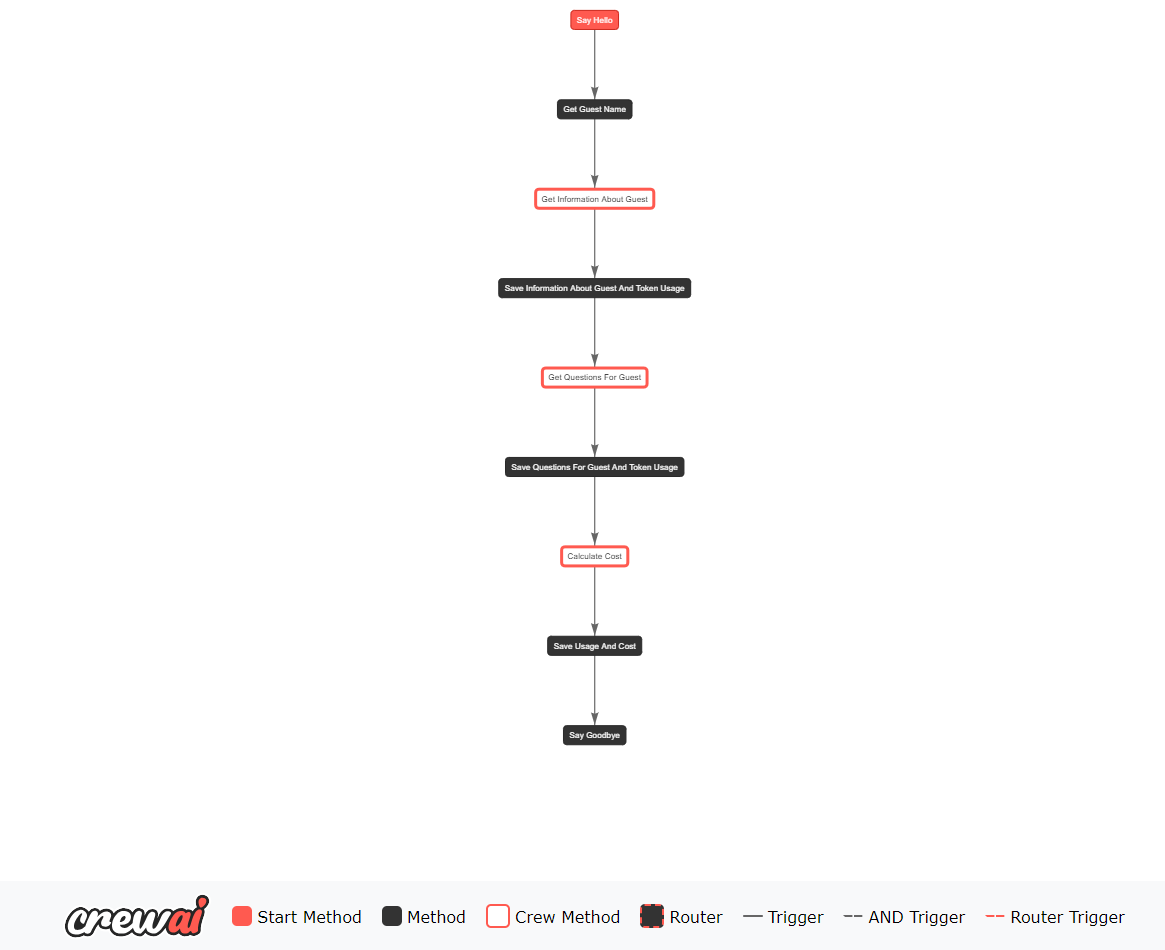
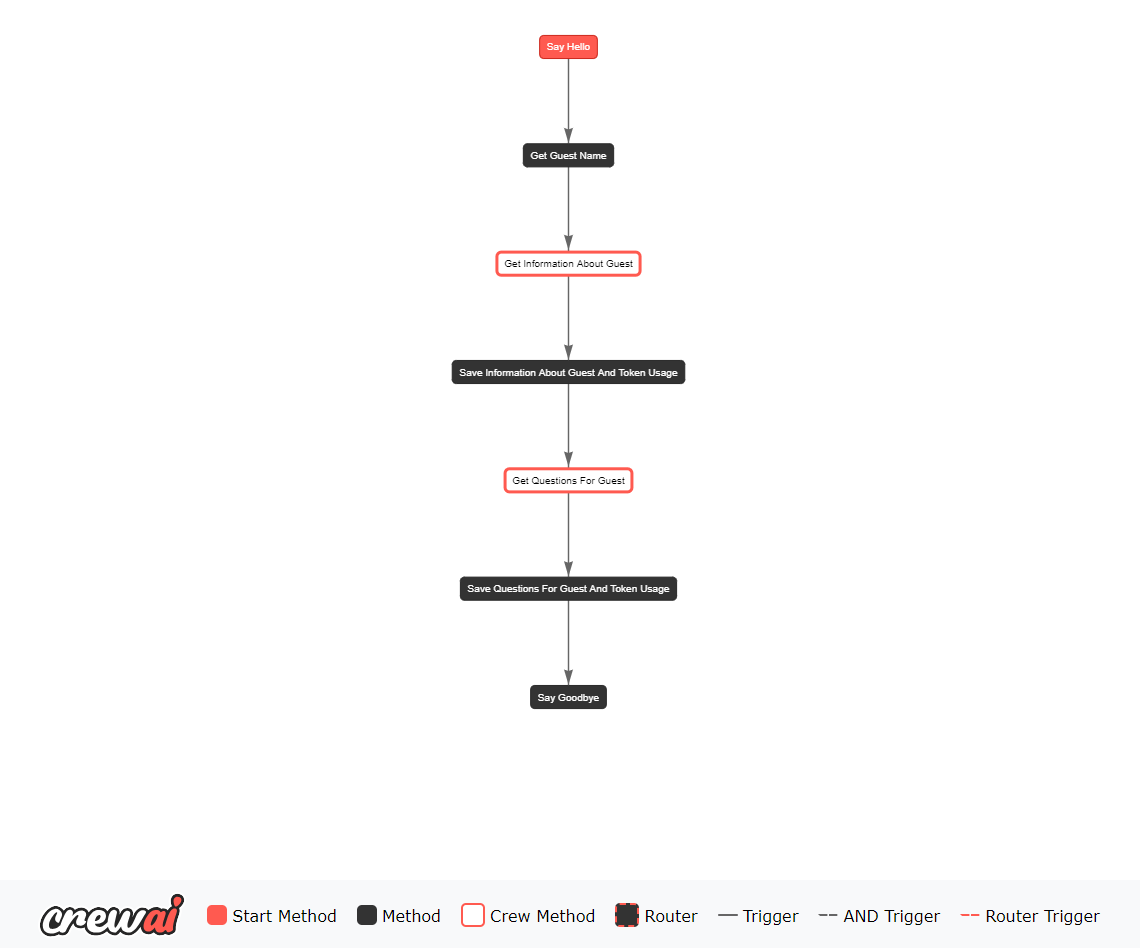
Final fix

diff --git a/crewai-tutorials/1-Podcast_prepper/podcast_prepper/crewai_flow.html b/crewai-tutorials/1-Podcast_prepper/podcast_prepper/crewai_flow.html
@@ -162,8 +162,8 @@
                   
 
                   // parsing and collecting nodes and edges from the python
-                  nodes = new vis.DataSet([{"color": "#FF5A50", "fixed": true, "font": {"color": "#FFFFFF", "multi": "html"}, "id": "say_hello", "label": "Say Hello", "margin": {"bottom": 8, "left": 10, "right": 10, "top": 10}, "physics": false, "shape": "box", "x": 0.0, "y": 0}, {"color": "#333333", "fixed": true, "font": {"color": "#FFFFFF", "multi": "html"}, "id": "get_guest_name", "label": "Get Guest Name", "margin": {"bottom": 8, "left": 10, "right": 10, "top": 10}, "physics": false, "shape": "box", "x": 0.0, "y": 150}, {"borderWidth": 3, "borderWidthSelected": 4, "color": {"background": "#FFFFFF", "border": "#FF5A50"}, "fixed": true, "font": {"color": "#000000", "multi": "html"}, "id": "get_information_about_guest", "label": "Get Information About Guest", "margin": {"bottom": 8, "left": 10, "right": 10, "top": 10}, "physics": false, "shape": "box", "shapeProperties": {"borderDashes": false}, "x": 0.0, "y": 300}, {"color": "#333333", "fixed": true, "font": {"color": "#FFFFFF", "multi": "html"}, "id": "save_information_about_guest_and_token_usage", "label": "Save Information About Guest And Token Usage", "margin": {"bottom": 8, "left": 10, "right": 10, "top": 10}, "physics": false, "shape": "box", "x": 0.0, "y": 450}, {"borderWidth": 3, "borderWidthSelected": 4, "color": {"background": "#FFFFFF", "border": "#FF5A50"}, "fixed": true, "font": {"color": "#000000", "multi": "html"}, "id": "get_questions_for_guest", "label": "Get Questions For Guest", "margin": {"bottom": 8, "left": 10, "right": 10, "top": 10}, "physics": false, "shape": "box", "shapeProperties": {"borderDashes": false}, "x": 0.0, "y": 600}, {"color": "#333333", "fixed": true, "font": {"color": "#FFFFFF", "multi": "html"}, "id": "save_questions_for_guest_and_token_usage", "label": "Save Questions For Guest And Token Usage", "margin": {"bottom": 8, "left": 10, "right": 10, "top": 10}, "physics": false, "shape": "box", "x": 0.0, "y": 750}, {"borderWidth": 3, "borderWidthSelected": 4, "color": {"background": "#FFFFFF", "border": "#FF5A50"}, "fixed": true, "font": {"color": "#000000", "multi": "html"}, "id": "calculate_cost", "label": "Calculate Cost", "margin": {"bottom": 8, "left": 10, "right": 10, "top": 10}, "physics": false, "shape": "box", "shapeProperties": {"borderDashes": false}, "x": 0.0, "y": 900}, {"color": "#333333", "fixed": true, "font": {"color": "#FFFFFF", "multi": "html"}, "id": "save_usage_and_cost", "label": "Save Usage And Cost", "margin": {"bottom": 8, "left": 10, "right": 10, "top": 10}, "physics": false, "shape": "box", "x": 0.0, "y": 1050}, {"color": "#333333", "fixed": true, "font": {"color": "#FFFFFF", "multi": "html"}, "id": "say_goodbye", "label": "Say Goodbye", "margin": {"bottom": 8, "left": 10, "right": 10, "top": 10}, "physics": false, "shape": "box", "x": 0.0, "y": 1200}]);
-                  edges = new vis.DataSet([{"arrows": "to", "color": "#666666", "dashes": false, "from": "say_hello", "smooth": false, "to": "get_guest_name", "width": 2}, {"arrows": "to", "color": "#666666", "dashes": false, "from": "get_guest_name", "smooth": false, "to": "get_information_about_guest", "width": 2}, {"arrows": "to", "color": "#666666", "dashes": false, "from": "get_information_about_guest", "smooth": false, "to": "save_information_about_guest_and_token_usage", "width": 2}, {"arrows": "to", "color": "#666666", "dashes": false, "from": "save_information_about_guest_and_token_usage", "smooth": false, "to": "get_questions_for_guest", "width": 2}, {"arrows": "to", "color": "#666666", "dashes": false, "from": "get_questions_for_guest", "smooth": false, "to": "save_questions_for_guest_and_token_usage", "width": 2}, {"arrows": "to", "color": "#666666", "dashes": false, "from": "save_questions_for_guest_and_token_usage", "smooth": false, "to": "calculate_cost", "width": 2}, {"arrows": "to", "color": "#666666", "dashes": false, "from": "calculate_cost", "smooth": false, "to": "save_usage_and_cost", "width": 2}, {"arrows": "to", "color": "#666666", "dashes": false, "from": "save_usage_and_cost", "smooth": false, "to": "say_goodbye", "width": 2}]);
+                  nodes = new vis.DataSet([{"color": "#FF5A50", "fixed": true, "font": {"color": "#FFFFFF", "multi": "html"}, "id": "say_hello", "label": "Say Hello", "margin": {"bottom": 8, "left": 10, "right": 10, "top": 10}, "physics": false, "shape": "box", "x": 0.0, "y": 0}, {"color": "#333333", "fixed": true, "font": {"color": "#FFFFFF", "multi": "html"}, "id": "get_guest_name", "label": "Get Guest Name", "margin": {"bottom": 8, "left": 10, "right": 10, "top": 10}, "physics": false, "shape": "box", "x": 0.0, "y": 150}, {"borderWidth": 3, "borderWidthSelected": 4, "color": {"background": "#FFFFFF", "border": "#FF5A50"}, "fixed": true, "font": {"color": "#000000", "multi": "html"}, "id": "get_information_about_guest", "label": "Get Information About Guest", "margin": {"bottom": 8, "left": 10, "right": 10, "top": 10}, "physics": false, "shape": "box", "shapeProperties": {"borderDashes": false}, "x": 0.0, "y": 300}, {"color": "#333333", "fixed": true, "font": {"color": "#FFFFFF", "multi": "html"}, "id": "save_information_about_guest_and_token_usage", "label": "Save Information About Guest And Token Usage", "margin": {"bottom": 8, "left": 10, "right": 10, "top": 10}, "physics": false, "shape": "box", "x": 0.0, "y": 450}, {"borderWidth": 3, "borderWidthSelected": 4, "color": {"background": "#FFFFFF", "border": "#FF5A50"}, "fixed": true, "font": {"color": "#000000", "multi": "html"}, "id": "get_questions_for_guest", "label": "Get Questions For Guest", "margin": {"bottom": 8, "left": 10, "right": 10, "top": 10}, "physics": false, "shape": "box", "shapeProperties": {"borderDashes": false}, "x": 0.0, "y": 600}, {"color": "#333333", "fixed": true, "font": {"color": "#FFFFFF", "multi": "html"}, "id": "save_questions_for_guest_and_token_usage", "label": "Save Questions For Guest And Token Usage", "margin": {"bottom": 8, "left": 10, "right": 10, "top": 10}, "physics": false, "shape": "box", "x": 0.0, "y": 750}, {"color": "#333333", "fixed": true, "font": {"color": "#FFFFFF", "multi": "html"}, "id": "say_goodbye", "label": "Say Goodbye", "margin": {"bottom": 8, "left": 10, "right": 10, "top": 10}, "physics": false, "shape": "box", "x": 0.0, "y": 900}]);
+                  edges = new vis.DataSet([{"arrows": "to", "color": "#666666", "dashes": false, "from": "say_hello", "smooth": false, "to": "get_guest_name", "width": 2}, {"arrows": "to", "color": "#666666", "dashes": false, "from": "get_guest_name", "smooth": false, "to": "get_information_about_guest", "width": 2}, {"arrows": "to", "color": "#666666", "dashes": false, "from": "get_information_about_guest", "smooth": false, "to": "save_information_about_guest_and_token_usage", "width": 2}, {"arrows": "to", "color": "#666666", "dashes": false, "from": "save_information_about_guest_and_token_usage", "smooth": false, "to": "get_questions_for_guest", "width": 2}, {"arrows": "to", "color": "#666666", "dashes": false, "from": "get_questions_for_guest", "smooth": false, "to": "save_questions_for_guest_and_token_usage", "width": 2}, {"arrows": "to", "color": "#666666", "dashes": false, "from": "save_questions_for_guest_and_token_usage", "smooth": false, "to": "say_goodbye", "width": 2}]);
 
                   nodeColors = {};
                   allNodes = nodes.get({ returnType: "Object" });

diff --git a/crewai-tutorials/1-Podcast_prepper/podcast_prepper/src/podcast_prepper/main.py b/crewai-tutorials/1-Podcast_prepper/podcast_prepper/src/podcast_prepper/main.py
@@ -4,7 +4,6 @@ from pydantic import BaseModel
 from crewai.flow.flow import Flow, listen, start
 from .crews.guest_research_crew.guest_research_crew import GuestResearchCrew
 from .crews.questions_research_crew.questions_research_crew import QuestionsResearchCrew
-from .crews.cost_calculation_crew.cost_calculation_crew import CostCalculationCrew
 from rich.console import Console
 from rich.prompt import Prompt
 
@@ -16,7 +15,6 @@ class PodcastPrepperState(BaseModel):
     user_input: str = ""
     crewai_output: str = ""
     token_usage: str = ""
-    calculated_cost: str = ""
 
 
 class PodcastPrepperFlow(Flow[PodcastPrepperState]):
@@ -99,40 +97,6 @@ class PodcastPrepperFlow(Flow[PodcastPrepperState]):
             file.write(token_usage_str)
 
     @listen(save_questions_for_guest_and_token_usage)
-    def calculate_cost(self):
-        with open("log_token_usage.txt", "r") as file:
-            usage_information = file.read()
-
-        crewai_output = (
-            CostCalculationCrew()
-            .crew()
-            .kickoff(
-                inputs={
-                    "usage_information": usage_information,
-                }
-            )
-        )
-
-        self.state.crewai_output = crewai_output.raw
-        self.state.token_usage = crewai_output.token_usage
-
-        token_usage_str = str(self.state.token_usage)
-
-        with open("log_token_usage.txt", "a") as file:
-            file.write("\n\nCost Calculation Crew\n\n")
-            file.write(token_usage_str)
-
-        output_formatter.print(f"[#66FF66]🤖 CrewAI: \n{crewai_output.raw}[/#66FF66]")
-
-    @listen(calculate_cost)
-    def save_usage_and_cost(self):
-        formatted_user_input = self.state.user_input.lower().replace(" ", "_")
-
-        with open(f"{formatted_user_input}_report.md", "a") as file:
-            file.write("\n\n---\n\n")
-            file.write(self.state.crewai_output)
-
-    @listen(save_usage_and_cost)
     def say_goodbye(self):
         formatted_user_input = self.state.user_input.lower().replace(" ", "_")
 

diff --git a/crewai-tutorials/1-Podcast_prepper/podcast_prepper/rok_benko_report.md b/crewai-tutorials/1-Podcast_prepper/podcast_prepper/rok_benko_report.md
@@ -1,9 +1,11 @@
 # Rok Benko: A Comprehensive Profile
 
 ## Background and Education
+
 Rok Benko is a self-taught developer from Ljubljana, Slovenia. His journey into the world of technology began with a simple two-hour high school lecture on HTML and CSS. Despite the initial result being less than aesthetically pleasing, this experience sparked a curiosity in Rok that would shape his future career. Driven by a desire to improve his skills, he committed to learning HTML and CSS every day after school, laying the foundation for his future in tech.
 
 ## Career Milestones
+
 Rok's career has been marked by significant achievements in the field of AI and software development:
 
 1. Becoming the #1 OpenAI API contributor on Stack Overflow, showcasing his expertise and willingness to share knowledge with the community.
@@ -11,6 +13,7 @@ Rok's career has been marked by significant achievements in the field of AI and 
 3. Developing a strong presence on various coding platforms and social media, including GitHub, Stack Overflow, and LinkedIn.
 
 ## Public Image and Online Presence
+
 Rok maintains an active online presence across several platforms:
 
 - GitHub: [@rokbenko](https://github.com/rokbenko)
@@ -22,6 +25,7 @@ Rok maintains an active online presence across several platforms:
 His online persona is that of a knowledgeable, helpful, and passionate tech enthusiast, always eager to share his insights and assist others in their coding journey.
 
 ## Notable Achievements
+
 Rok has several notable achievements in the Stack Overflow community:
 
 - First user to earn the silver openai-api badge (August 25, 2023)
@@ -32,12 +36,15 @@ Rok has several notable achievements in the Stack Overflow community:
 These achievements underscore his expertise in AI-related technologies, particularly in the OpenAI ecosystem.
 
 ## Personal Life
+
 While specific details about Rok's personal life are limited, we know he is based in Ljubljana, Slovenia. His passion for technology and learning appears to be a significant part of his life, as evidenced by his continuous engagement with coding and AI projects.
 
 ## Influence and Impact
+
 Rok's influence in the tech community is evident through his contributions on Stack Overflow and his educational content on YouTube. He has positioned himself as a go-to resource for developers working with OpenAI's API and other AI technologies. His tutorials and explanations help bridge the gap between complex AI concepts and practical implementation.
 
 ## Publications and Works
+
 Rok maintains a GitHub repository called "ai-playground" where he shares code from tutorials presented on his YouTube channel. This repository covers a wide range of AI-related topics, including:
 
 - OpenAI API usage
@@ -49,6 +56,7 @@ Rok maintains a GitHub repository called "ai-playground" where he shares code fr
 - NLP with spaCy
 
 ## Current Projects
+
 As of the most recent information available, Rok is actively involved in:
 
 1. Creating content for his "Code AI with Rok" YouTube channel
@@ -56,17 +64,21 @@ As of the most recent information available, Rok is actively involved in:
 3. Developing and maintaining his "ai-playground" GitHub repository with various AI-related tutorials and examples
 
 ## Philanthropy and Community Involvement
+
 While not explicitly labeled as philanthropy, Rok's consistent efforts to share knowledge and help others in the coding community can be seen as a form of giving back. He mentions on his Stack Overflow profile that he contributes to the community as it was one of his main sources of knowledge when he was starting out.
 
 ## Challenges and Controversies
+
 There is no information available about any significant challenges or controversies in Rok Benko's career.
 
 ## Awards and Honors
+
 Beyond his Stack Overflow achievements, there is no specific information about formal awards or honors received by Rok Benko.
 
 Rok Benko's journey from a curious high school student to a respected figure in the AI development community showcases the power of self-directed learning and community engagement in the tech world. His contributions to Stack Overflow, educational content on YouTube, and open-source projects on GitHub have established him as a valuable resource for developers working with cutting-edge AI technologies.
 
 ## Sources
+
 - https://github.com/rokbenko
 - https://stackoverflow.com/users/10347145/rok-benko
 - https://www.linkedin.com/posts/rokbenko_how-llms-work-the-simplest-and-most-practical-activity-7242910243343519744-XUJn
@@ -127,73 +139,3 @@ Rok Benko's journey from a curious high school student to a respected figure in 
 24. You've explored various AI applications, from natural language processing to vector databases. Which area do you believe has the most untapped potential for innovation?
 
 25. As we wrap up, if you could send a message to your younger self just starting out in tech, what would you say?
-
----
-
-# Estimated Cost of CrewAI Usage
-
-## Guest Research Crew Cost
-
-- Input Tokens: 14,410
-- Output Tokens: 3,563
-- Successful Requests: 4
-
-- Input Cost: $0.04323 (14,410 * $3 / 1,000,000)
-- Output Cost: $0.053445 (3,563 * $15 / 1,000,000)
-- Total Cost: $0.096675
-
-## Questions Research Crew Cost
-
-- Input Tokens: 3,908
-- Output Tokens: 889
-- Successful Requests: 1
-
-- Input Cost: $0.011724 (3,908 * $3 / 1,000,000)
-- Output Cost: $0.013335 (889 * $15 / 1,000,000)
-- Total Cost: $0.025059
-
-## Total Cost
-
-Total Estimated Cost: $0.121734 ($0.096675 + $0.025059)
-
-## Code Used for Calculations
-
-```python
-# Define token costs
-INPUT_TOKEN_COST = 3 / 1000000  # $3 per million input tokens
-OUTPUT_TOKEN_COST = 15 / 1000000  # $15 per million output tokens
-
-# Guest Research Crew data
-guest_input_tokens = 14410
-guest_output_tokens = 3563
-guest_successful_requests = 4
-
-# Questions Research Crew data
-questions_input_tokens = 3908
-questions_output_tokens = 889
-questions_successful_requests = 1
-
-# Calculate costs for Guest Research Crew
-guest_input_cost = guest_input_tokens * INPUT_TOKEN_COST
-guest_output_cost = guest_output_tokens * OUTPUT_TOKEN_COST
-guest_total_cost = guest_input_cost + guest_output_cost
-
-# Calculate costs for Questions Research Crew
-questions_input_cost = questions_input_tokens * INPUT_TOKEN_COST
-questions_output_cost = questions_output_tokens * OUTPUT_TOKEN_COST
-questions_total_cost = questions_input_cost + questions_output_cost
-
-# Calculate total cost
-total_cost = guest_total_cost + questions_total_cost
-
-# Print results
-print(f"Guest Research Crew Cost: ${guest_total_cost:.6f}")
-print(f"  Input Cost: ${guest_input_cost:.6f}")
-print(f"  Output Cost: ${guest_output_cost:.6f}")
-print(f"Questions Research Crew Cost: ${questions_total_cost:.6f}")
-print(f"  Input Cost: ${questions_input_cost:.6f}")
-print(f"  Output Cost: ${questions_output_cost:.6f}")
-print(f"Total Estimated Cost: ${total_cost:.6f}")
-```
-
-Note: The reported costs are estimates due to the consumption of tokens by the Cost Calculation crew and Exa tool, which are not accounted for in the usage data. The actual cost may be slightly higher than the estimated amount presented here.
